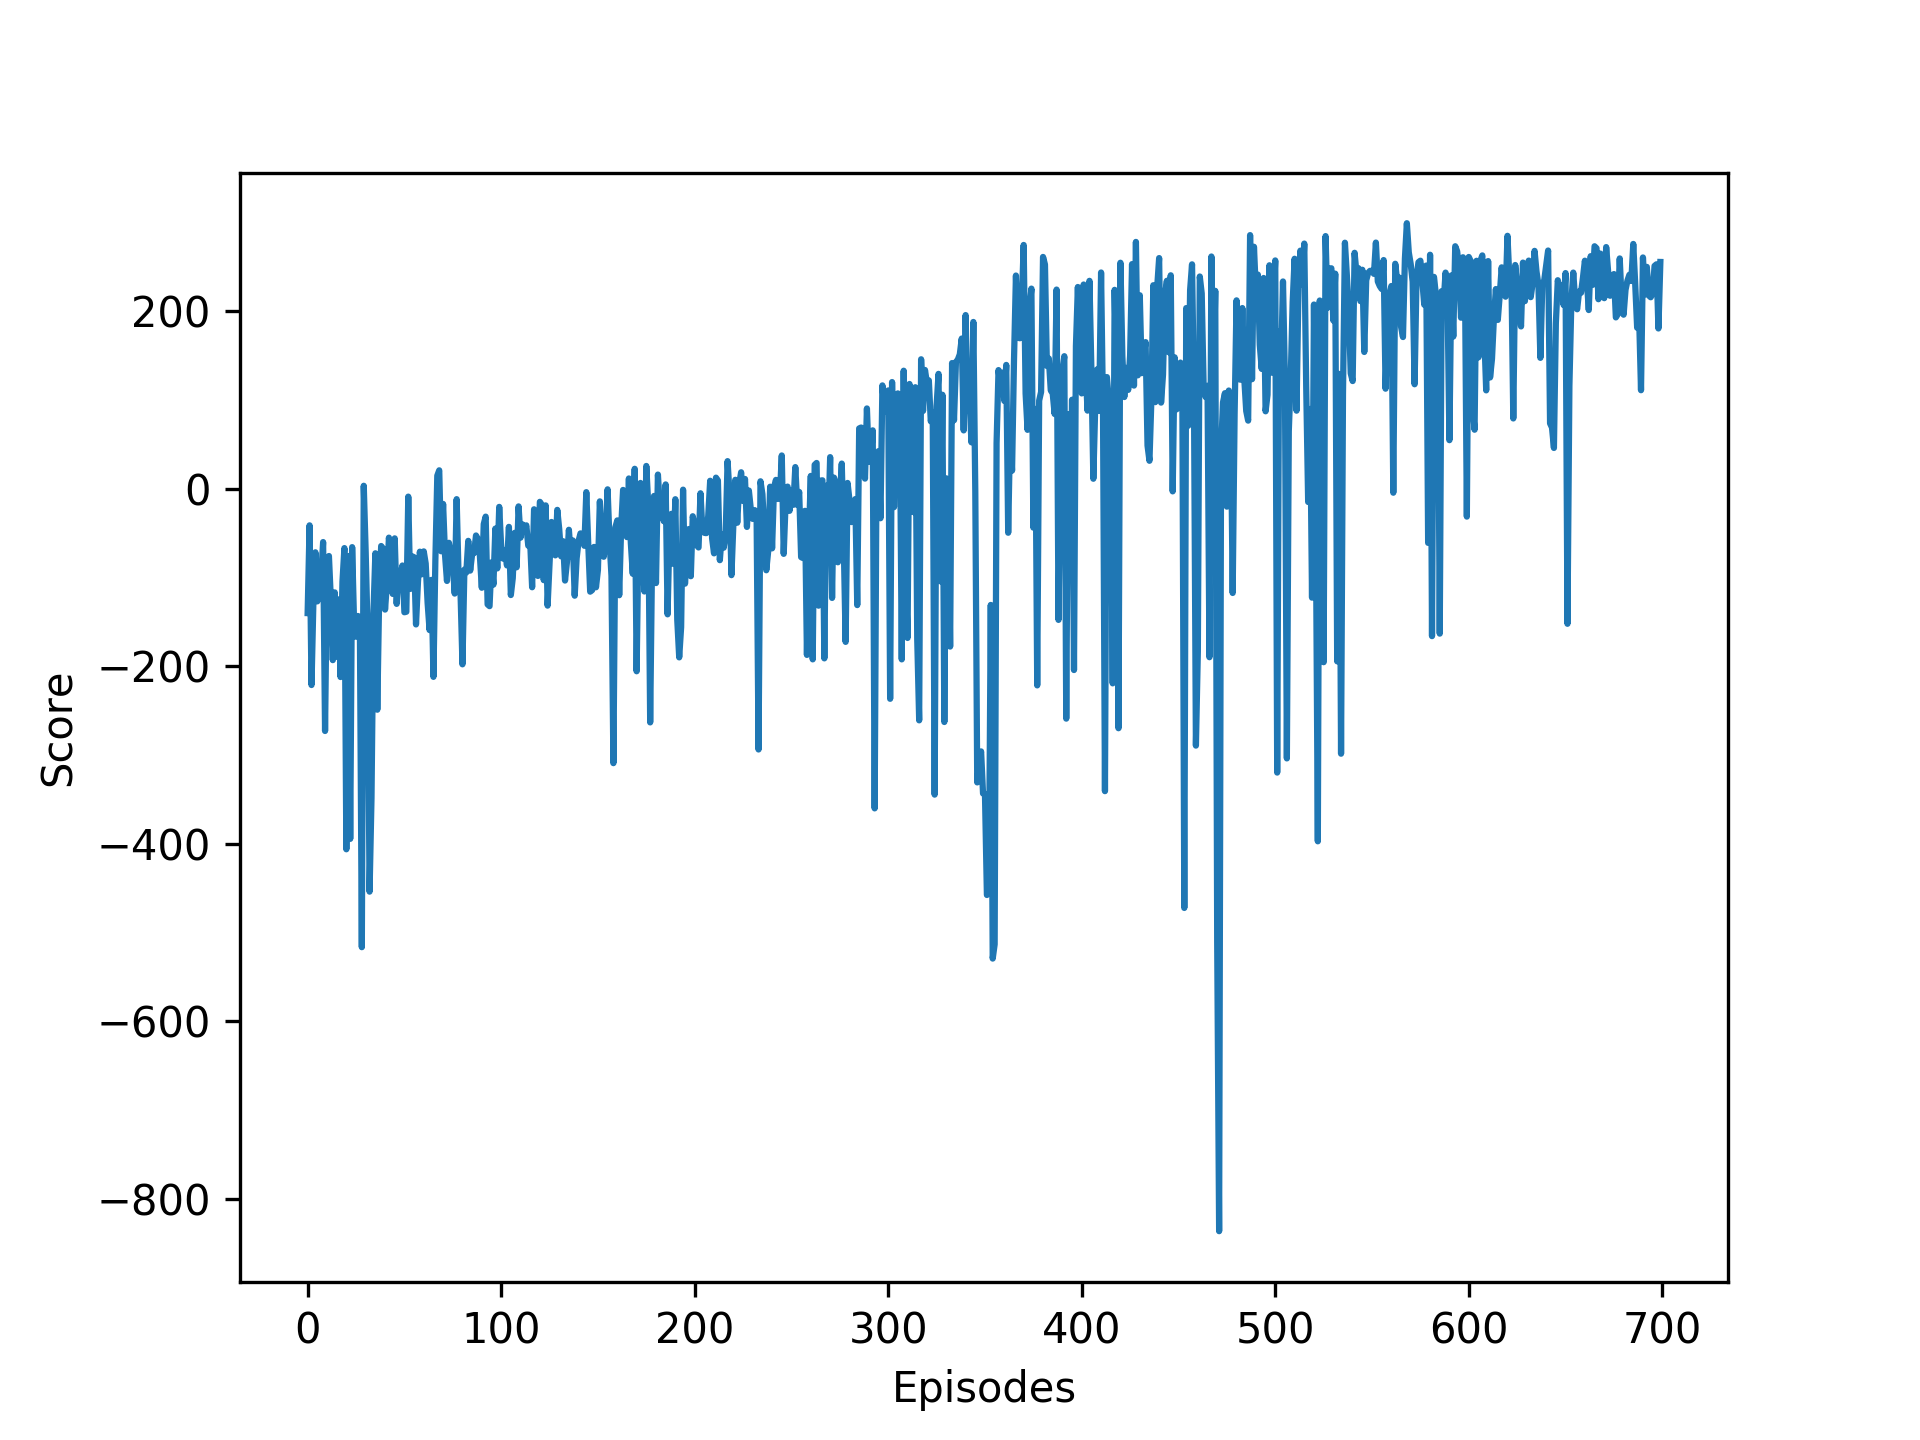
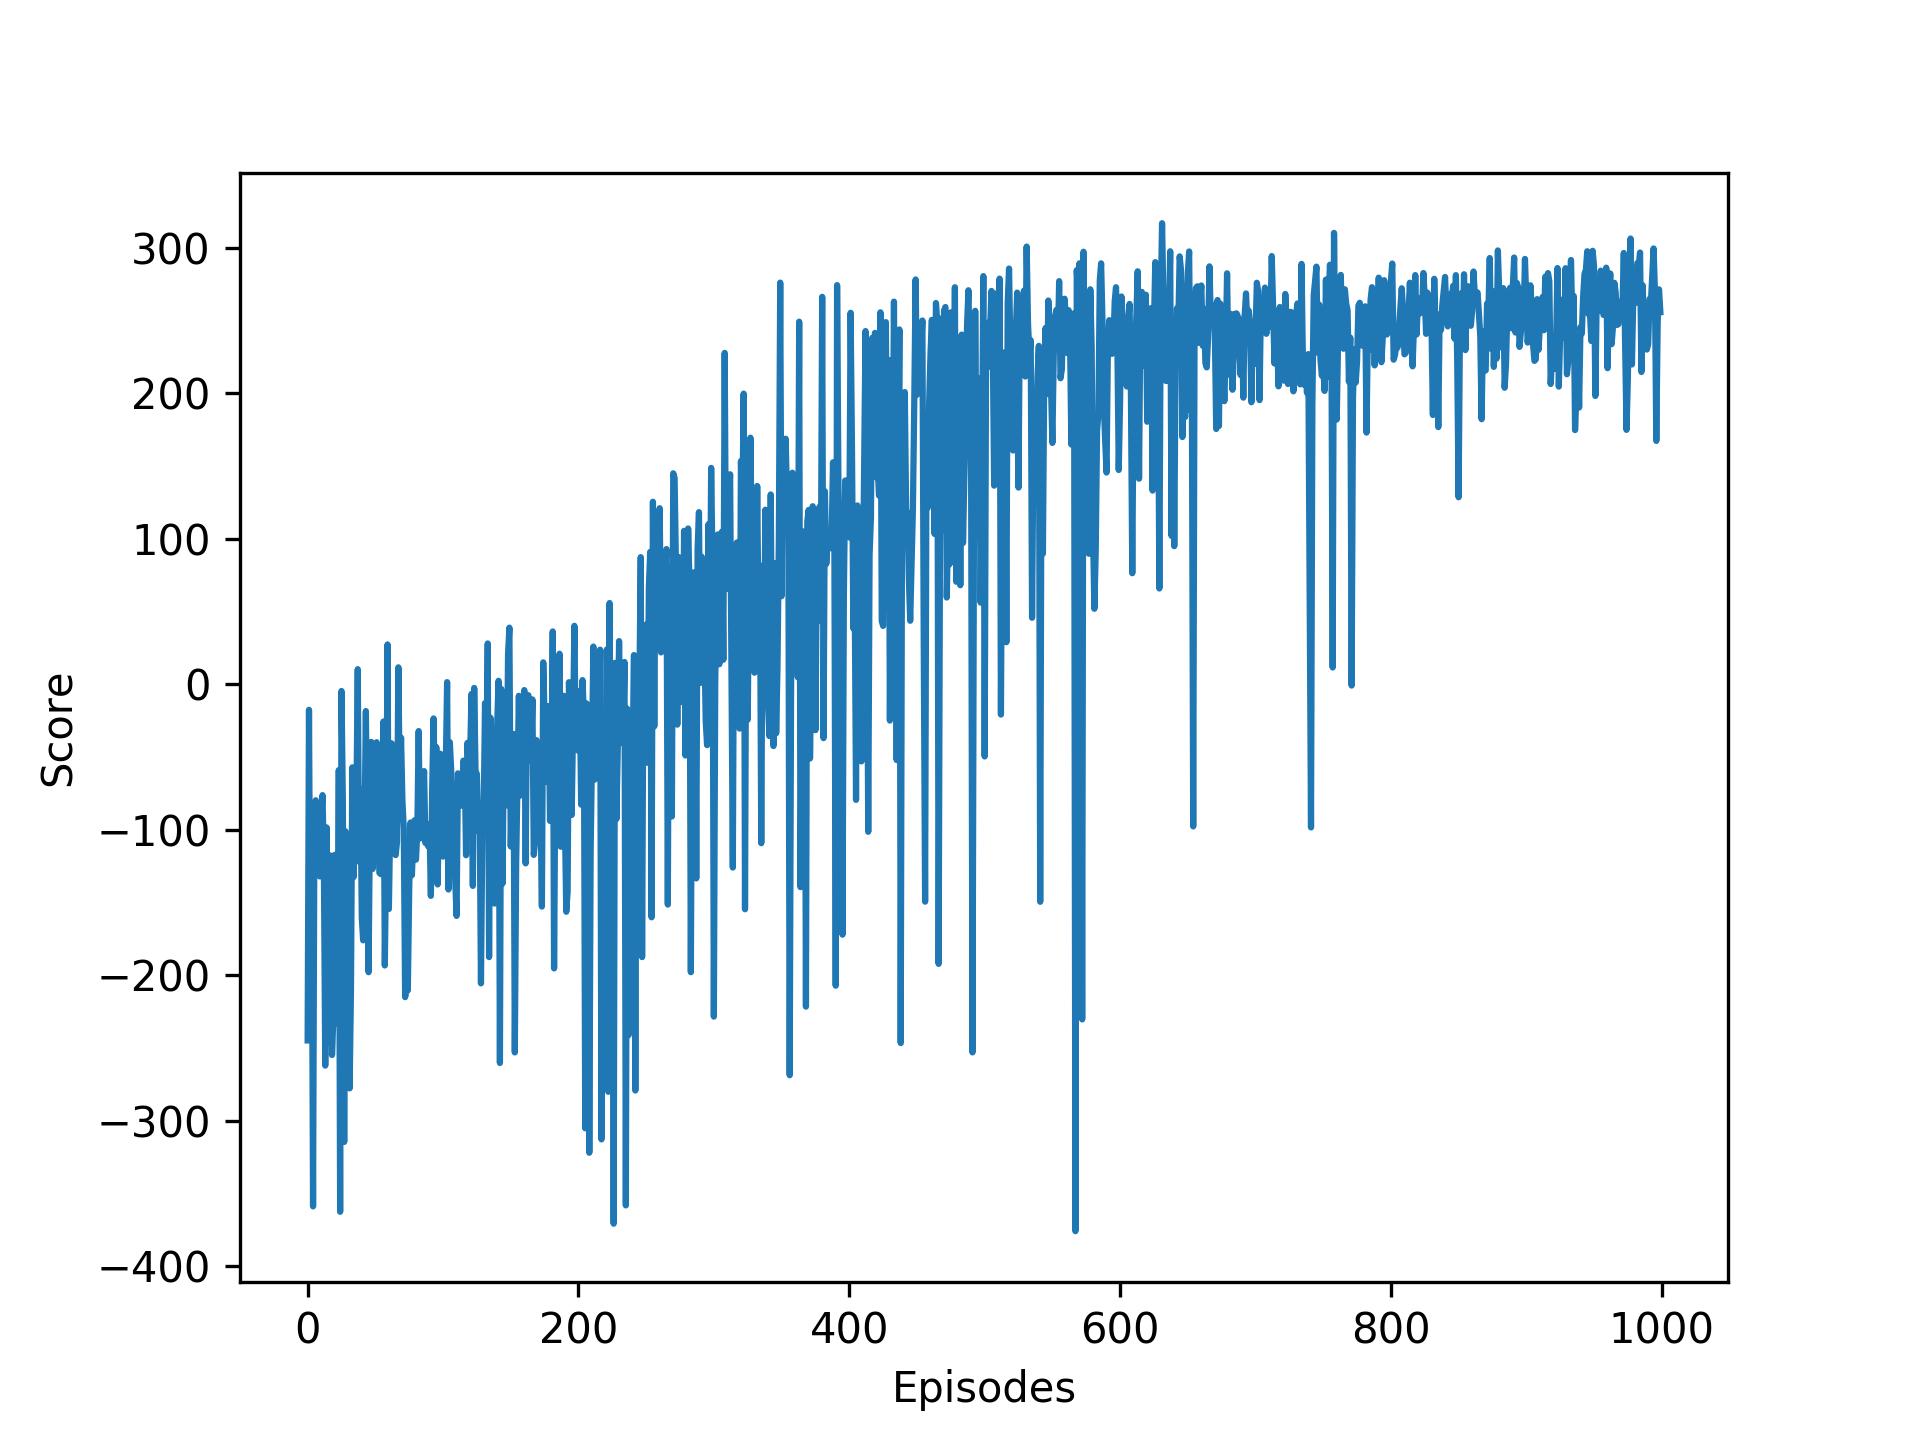
Disable early stopping and calc stats

diff --git a/task-2/main.py b/task-2/main.py
@@ -116,6 +116,8 @@ def train(args):
     scores = []
     recent_scores = deque(maxlen=100)
 
+    solved = False
+
     for episode in range(1, args.episodes + 1):
         state = env.reset()
         score = 0
@@ -145,17 +147,18 @@ def train(args):
 
         if episode % 100 == 0:
             avg_score = np.mean(recent_scores)
-            if avg_score > 200:
+            if avg_score > 200 and not solved:
                 print(
                     f"Task solved with {episode} episodes."
                     f"Average score: {avg_score}"
                 )
-                torch.save(q.state_dict(), args.dump)
-                plot_score(scores, args.plot)
-                break
+                solved = True
             else:
                 print(f"Episode {episode} average score: {avg_score}")
 
+            torch.save(q.state_dict(), str(episode) + args.dump)
+        
+    plot_score(scores, args.plot)
     env.close()
 
 

diff --git a/task-2/test.py b/task-2/test.py
@@ -42,6 +42,13 @@ def test(args):
     avg_score = np.mean(scores)
     print(f"Average score: {avg_score}")
 
+    for n in [200, 100, 0]:
+        stat = sum(True for s in scores if s > n)
+        print(f"{stat} episodes with score > {n}")
+
+    less_0 = sum(True for s in scores if s < 0)
+    print(f"{less_0} episodes with score < 0")
+
     env.close()
 
 

diff --git a/task-2/README.md b/task-2/README.md
@@ -5,21 +5,39 @@
 python main.py
 
 > States: 8; Actions: 4
-> Episode 100 average score: -115.99486798406855
-> Episode 200 average score: -65.84544873242791
-> Episode 300 average score: -26.961650859439395
-> Episode 400 average score: 20.725459285694214
-> Episode 500 average score: 99.92889484071988
-> Episode 600 average score: 160.3533932037851
-> Task solved with 700 episodes. Average score: 211.47770888095295
+> Episode 100 average score: -118.5721183796475
+> Episode 200 average score: -65.89658549844043
+> Episode 300 average score: -21.05148916317569
+> Episode 400 average score: 60.19892396859911
+> Episode 500 average score: 134.4213216211325
+> Episode 600 average score: 196.53098497960255
+> Task solved with 700 episodes. Average score: 229.47376548760846
+> Episode 800 average score: 232.6512570033434
+> Episode 900 average score: 251.04644482596532
+> Episode 1000 average score: 252.95532374903985
 ```
 
 ![Scores](plot.png)
 
 Тест и примеры полетов:
 ```bash
-python test.py
+python test.py --dump 700model.pth
 
-> Average score: 219.08627640540854
+> Average score: 231.04605811898836
+> 85 episodes with score > 200
+> 96 episodes with score > 100
+> 99 episodes with score > 0
+> 1 episodes with score < 0
 ```
+
+```bash
+python test.py --dump 1000model.pth
+
+> Average score: 253.2751754764696
+> 97 episodes with score > 200
+> 99 episodes with score > 100
+> 100 episodes with score > 0
+> 0 episodes with score < 0
+```
+
 ![Examples](lander.gif)
